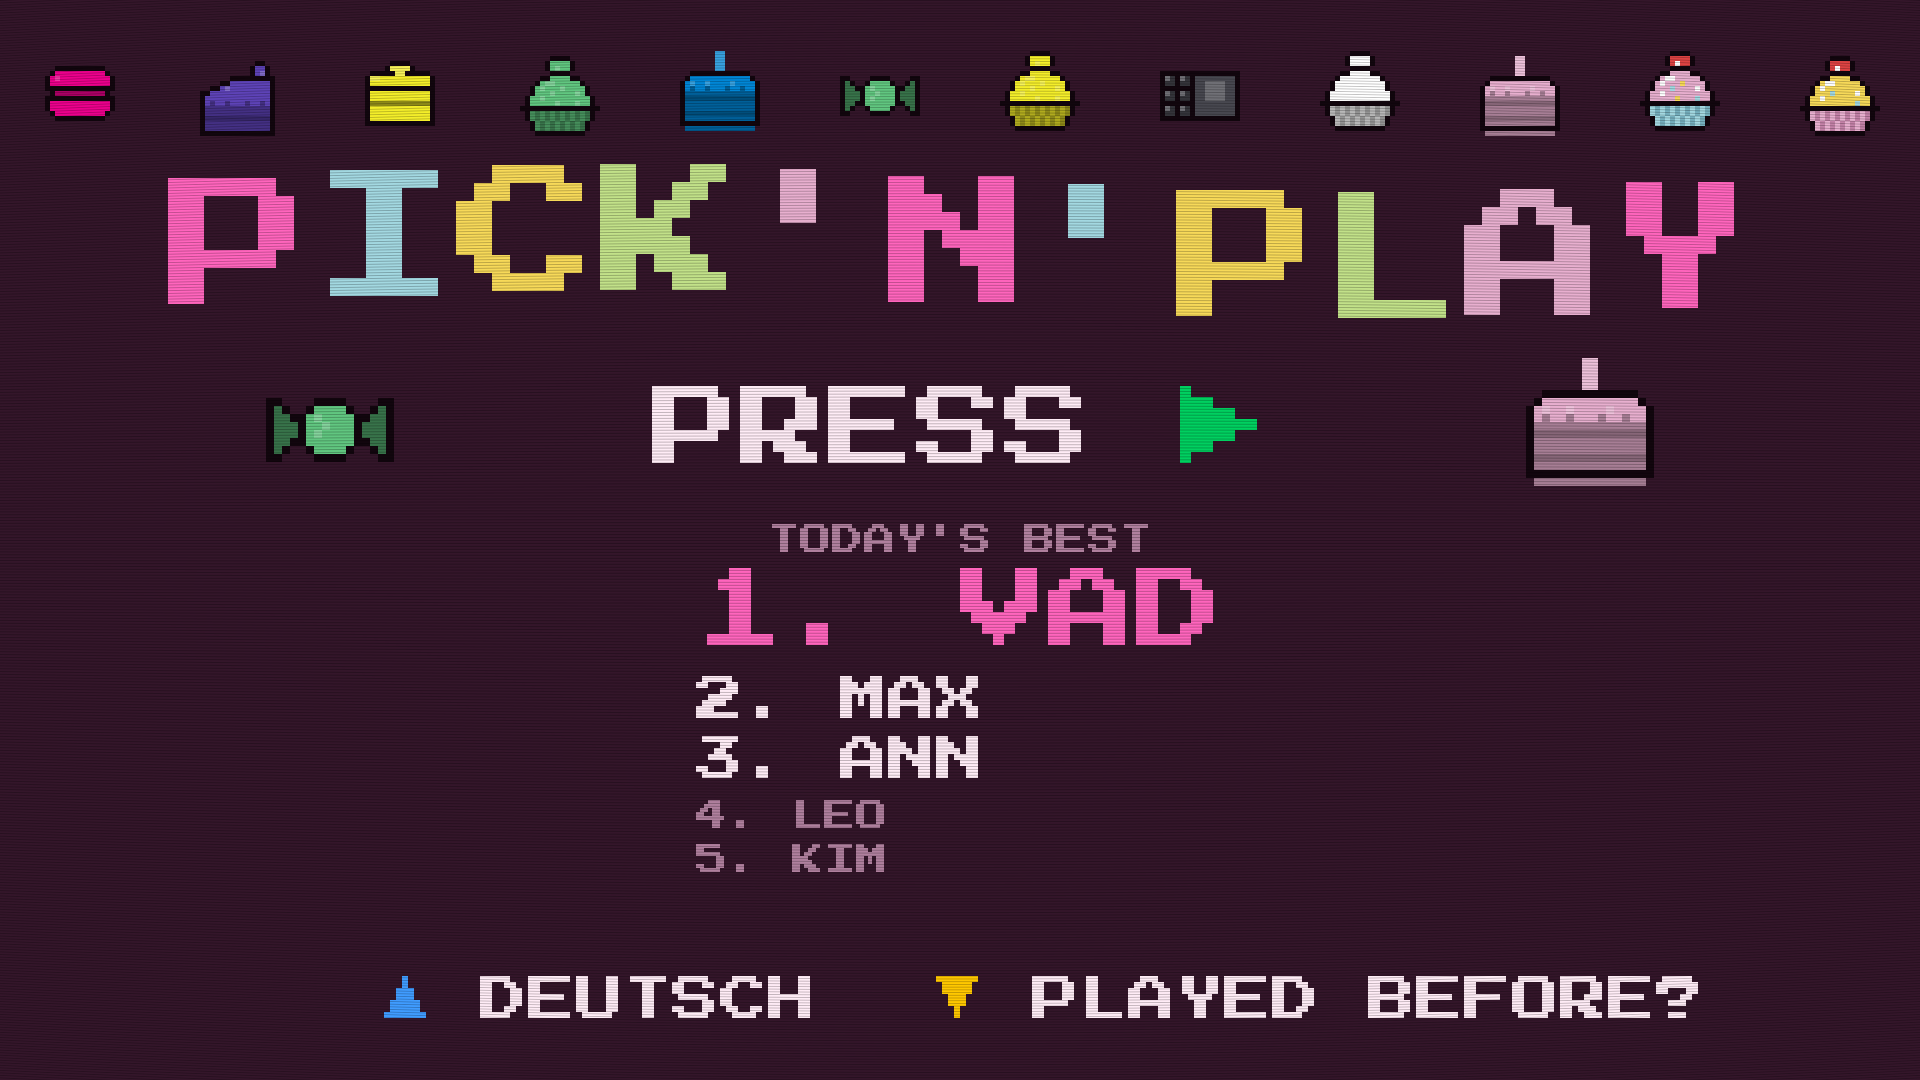
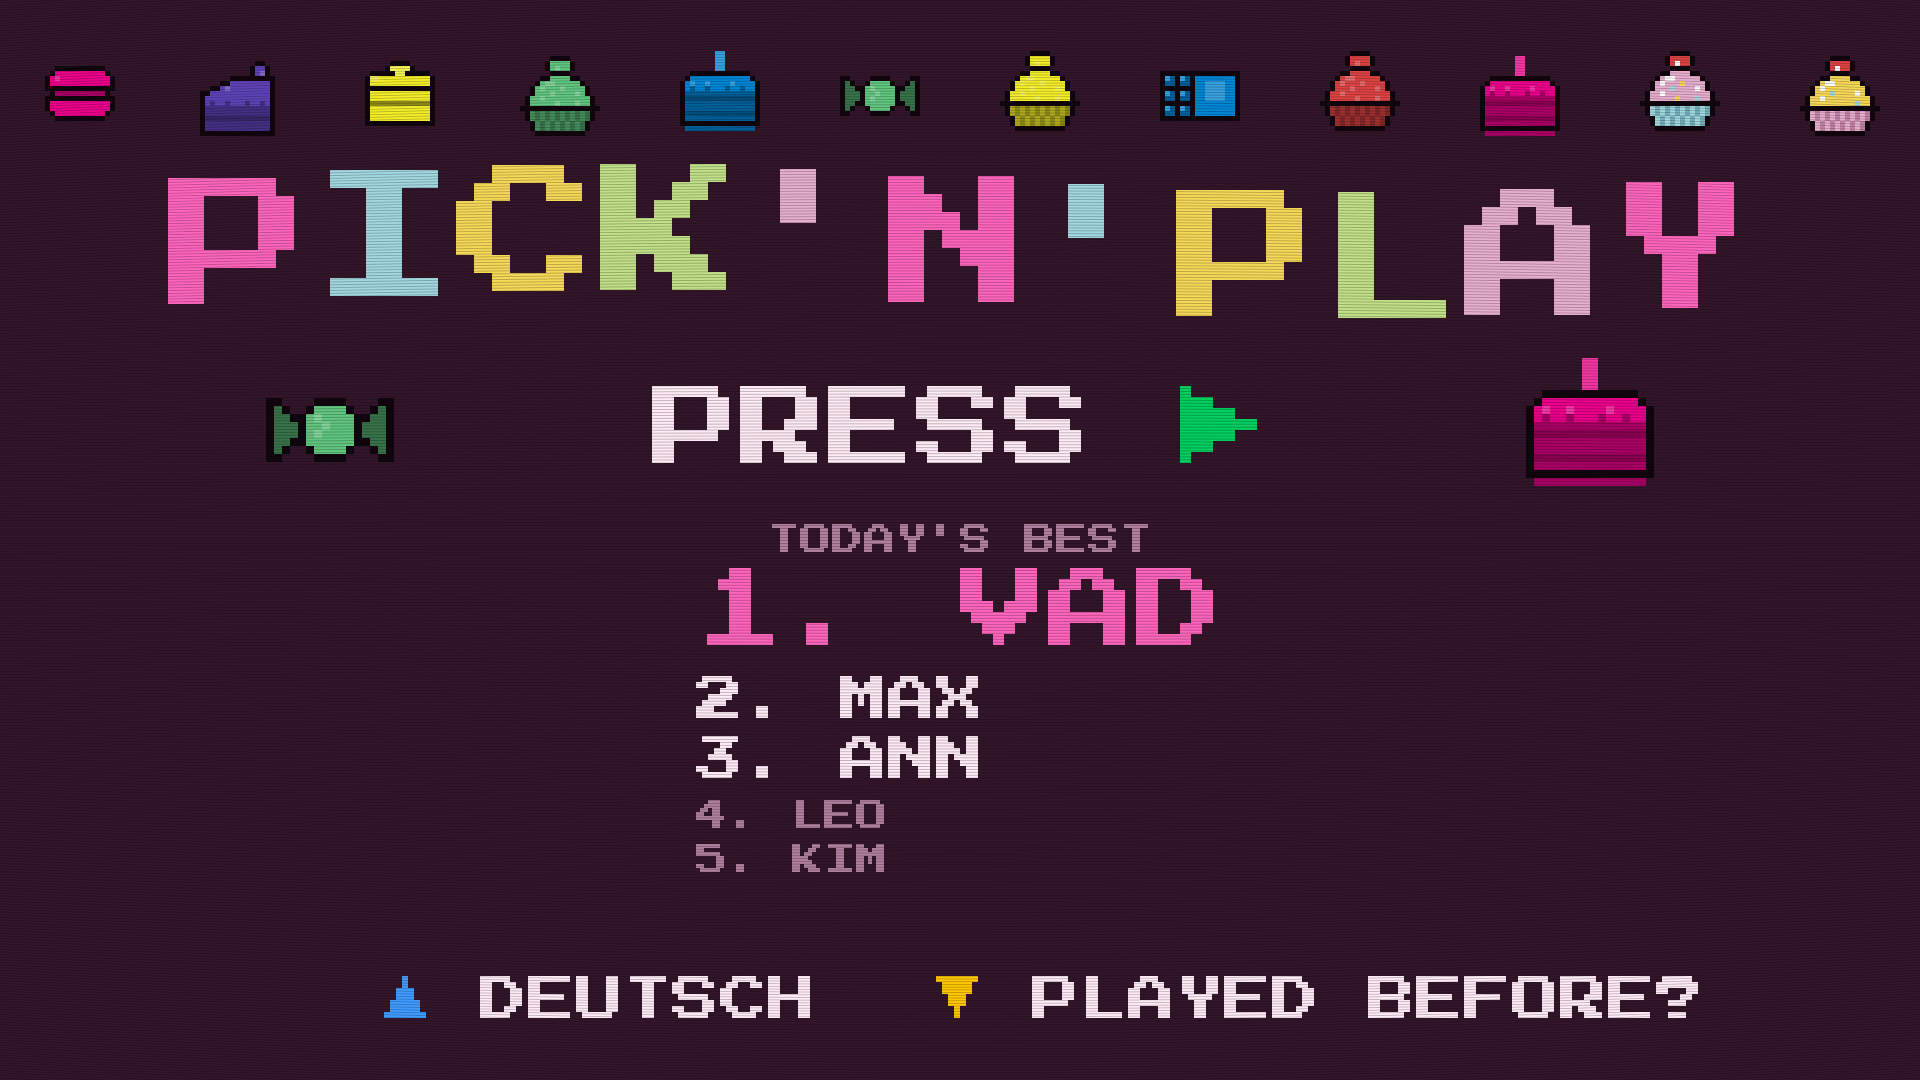
feat: reprint split over H2C and two X1C, colours per spool
One 3MF per printer. One black spool means black marks on one X1C only,
the other two mark in white. Macaron and two-tier torte share Hot Pink on
the H2C; big riegel turns blue, big cupcake scarlet. Sprites follow.

diff --git a/tools/nachdruck.py b/tools/nachdruck.py
@@ -1,8 +1,8 @@
 """Reprint plate 2026-09-28: six treats, one filament each plus marker cells.
 
-    uv run tools/nachdruck.py build/voxel/nachdruck_2026-09-28.3mf
+    uv run tools/nachdruck.py build/voxel/nachdruck_h2c.3mf h2c      # or x1c_1, x1c_2
 
-One 3MF, one plate, extruders by AMS slot (EXT). Writes a preview PNG next to it."""
+One 3MF per printer, extruders by AMS slot (PRINTERS). Writes a preview PNG next to it."""
 import json, sys, zipfile
 import numpy as np
 sys.path.insert(0, "tools")
@@ -34,19 +34,30 @@ def cake_big(frost, sponge, jam):
                  (disc(5.2), np.where(drip, frost, sponge)), (disc(5.2), frost),
                  *[(disc(3.6), f) for f in (sponge, jam, sponge, frost)])
 
-# name -> (base plan, body, marker cells, marker id, plate xy)
-SET = {   # name -> (plan, body, marker cells, id, plate xy); one body colour each
-    "macaron":      (lambda: macaron("a", "a"), "hot_pink", "ivory", 0, (50, 60)),
-    "cup_mini":     (v.TREATS["cup_mini"], "yellow", "charcoal", 10, (115, 60)),
-    "bonbon":       (lambda: bonbon("a"), "grass_green", "charcoal", 4, (195, 60)),
-    "cup_vanille":  (v.TREATS["cup_vanille"], "ivory", "charcoal", 5, (50, 140)),
-    "torte_gross":  (lambda: cake_big("a", "a", "a"), "sakura", "charcoal", 8, (125, 140)),
-    "riegel_gross": (lambda: bar_big("a", "a"), "charcoal", "ivory", 7, (125, 215)),
+# name -> (plan, body, marker cells, id, printer). One body colour each. A
+# spool can only sit in one printer and there is one black spool, so black
+# lives on one X1C and the other two mark in white (there are two whites).
+# Macaron and torte share Hot Pink: one colour less, and together they fill
+# the H2C about as long as each X1C runs.
+SET = {
+    "macaron":      (lambda: macaron("a", "a"), "hot_pink", "ivory", 0, "h2c"),
+    "torte_gross":  (lambda: cake_big("a", "a", "a"), "hot_pink", "ivory", 8, "h2c"),
+    "cup_mini":     (v.TREATS["cup_mini"], "yellow", "charcoal", 10, "x1c_1"),
+    "riegel_gross": (lambda: bar_big("a", "a"), "blue", "charcoal", 7, "x1c_1"),
+    "cup_vanille":  (v.TREATS["cup_vanille"], "scarlet", "ivory", 5, "x1c_2"),
+    "bonbon":       (lambda: bonbon("a"), "grass_green", "ivory", 4, "x1c_2"),
 }
-EXT = ["hot_pink", "sakura", "ivory", "charcoal", "yellow", "grass_green"]      # AMS slot order
+# AMS slot order per printer
+PRINTERS = {"h2c": ["hot_pink", "ivory"],
+            "x1c_1": ["charcoal", "yellow", "blue"],
+            "x1c_2": ["ivory", "scarlet", "grass_green"]}
 
+out, printer = sys.argv[1], sys.argv[2]
+EXT = PRINTERS[printer]
+plate = {k: t for k, t in SET.items() if t[4] == printer}
 objs, items, cfg, oid, grids = [], [], [], 0, {}
-for name, (plan, body, cell, mid, (px, py)) in SET.items():
+for i, (name, (plan, body, cell, mid, _)) in enumerate(plate.items()):
+    px, py = 128 + (i - (len(plate) - 1) / 2) * 90, 128     # one row, 90 mm apart
     v.TREATS[name] = lambda plan=plan, body=body: solid(plan(), body)
     # Search region: the marker must stay on one level, not spill down a cone or
     # off the top tier onto the ledge 20 mm below.
@@ -96,7 +107,6 @@ settings = ('<?xml version="1.0" encoding="UTF-8"?>\n<config>\n' + "".join(cfg)
 project = json.dumps({"filament_colour": [hexcol(f) for f in EXT],
                       "filament_settings_id": ["Bambu PLA Matte @BBL X1C"] * len(EXT),
                       "filament_type": ["PLA"] * len(EXT), "version": "02.07.01.62"}, indent=4)
-out = sys.argv[1]
 with zipfile.ZipFile(out, "w", zipfile.ZIP_DEFLATED) as z:
     z.writestr("[Content_Types].xml",
                '<?xml version="1.0" encoding="UTF-8"?>\n<Types xmlns="http://schemas.openxmlformats.org/package/2006/content-types">'
@@ -124,5 +134,5 @@ pygame.image.save(sheet, out.replace(".3mf", ".png"))
 # Height spread of the marker cells. The cupcake cones reach 10-15 mm, which
 # the 2026-09-11 simulation allows in the tray's middle (todo.md, cone limit).
 for name, g in grids.items():
-    z = np.argwhere(g == SET[name][2])[:, 2] * FINE
+    z = np.argwhere(g == plate[name][2])[:, 2] * FINE
     print(f"{name:12} marker cells span {z.max() - z.min():.0f} mm in height")

diff --git a/game/themes/sugar_rush.py b/game/themes/sugar_rush.py
@@ -520,13 +520,12 @@ SPRITES = {
     "petitfour_yellow": ("petitfour", _solid(YELLOW)),
     "cupcake_green":    ("cupcake",   _solid(GRASS)),
     "cake_blue":        ("cake",      _solid(BLUE)),
-    # The reprint of 2026-09-28, same rule. Black is drawn a few steps lighter
-    # than the spool, or the bar would vanish into BG.
+    # The reprint of 2026-09-28 (tools/nachdruck.py), same rule.
     "bonbon_green":     ("bonbon",    _solid(GRASS)),
     "cupcake_yellow":   ("cupcake",   _solid(YELLOW)),
-    "bar_black":        ("bar",       _solid((72, 72, 80))),
-    "cupcake_white":    ("cupcake",   _solid(IVORY)),
-    "cake_pink":        ("cake",      _solid(SAKURA)),
+    "bar_blue":         ("bar",       _solid(BLUE)),
+    "cupcake_red":      ("cupcake",   _solid(SCARLET)),
+    "cake_hot":         ("cake",      _solid(HOT_PINK)),
     "cupcake_pink":   ("cupcake",   dict(a=SAKURA, c=ICE, d=(118, 176, 190))),
     "cupcake_lemon":  ("cupcake",   dict(a=LEMON, c=SAKURA, d=(196, 130, 168))),
     "cupcake_mint":   ("cupcake",   dict(a=APPLE, c=LILAC, d=(132, 108, 176))),
@@ -571,9 +570,9 @@ EXTRAS = {
 # Everything printed solid (one filament plus marker cells), in the same
 # order as VALUES, cheap and light first. Shape and colour together tell the
 # treats apart: a solid object has no icing or filling left to do it. Where a
-# colour repeats (yellow, green) the shape differs. Donuts stay missing on
+# colour repeats (yellow, green, red, blue, hot pink) the shape differs. Donuts stay missing on
 # purpose: the hole cuts through the marker.
 SPRITE = {4: "bonbon_green",     1: "bar_red",        0: "macaron_hot",
           10: "cupcake_yellow",  6: "slice_purple",   2: "petitfour_yellow",
-          11: "cupcake_green",   7: "bar_black",      5: "cupcake_white",
-          9: "cake_blue",        8: "cake_pink"}
+          11: "cupcake_green",   7: "bar_blue",       5: "cupcake_red",
+          9: "cake_blue",        8: "cake_hot"}
